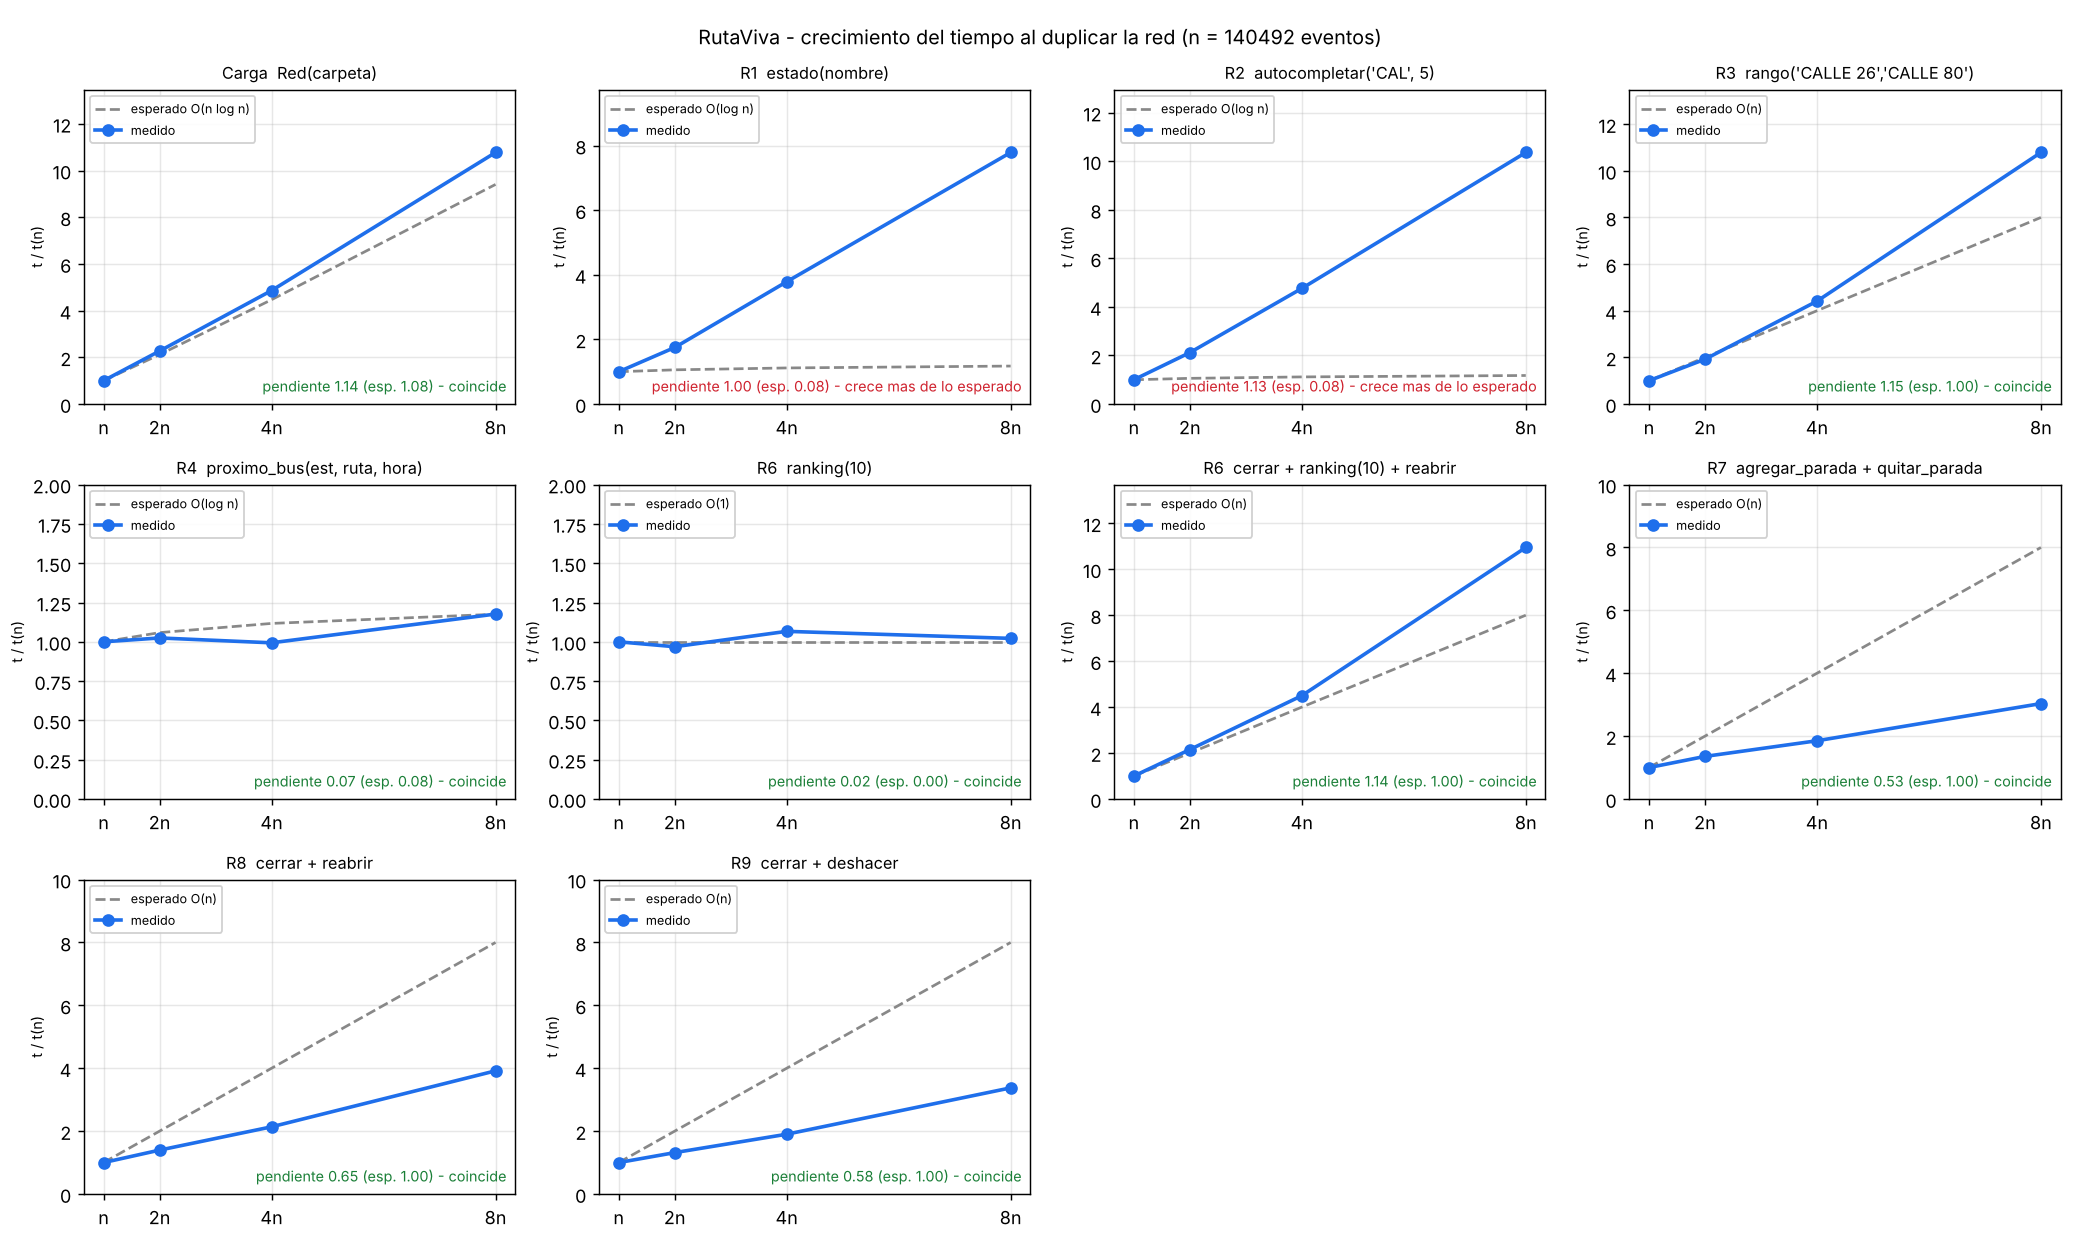
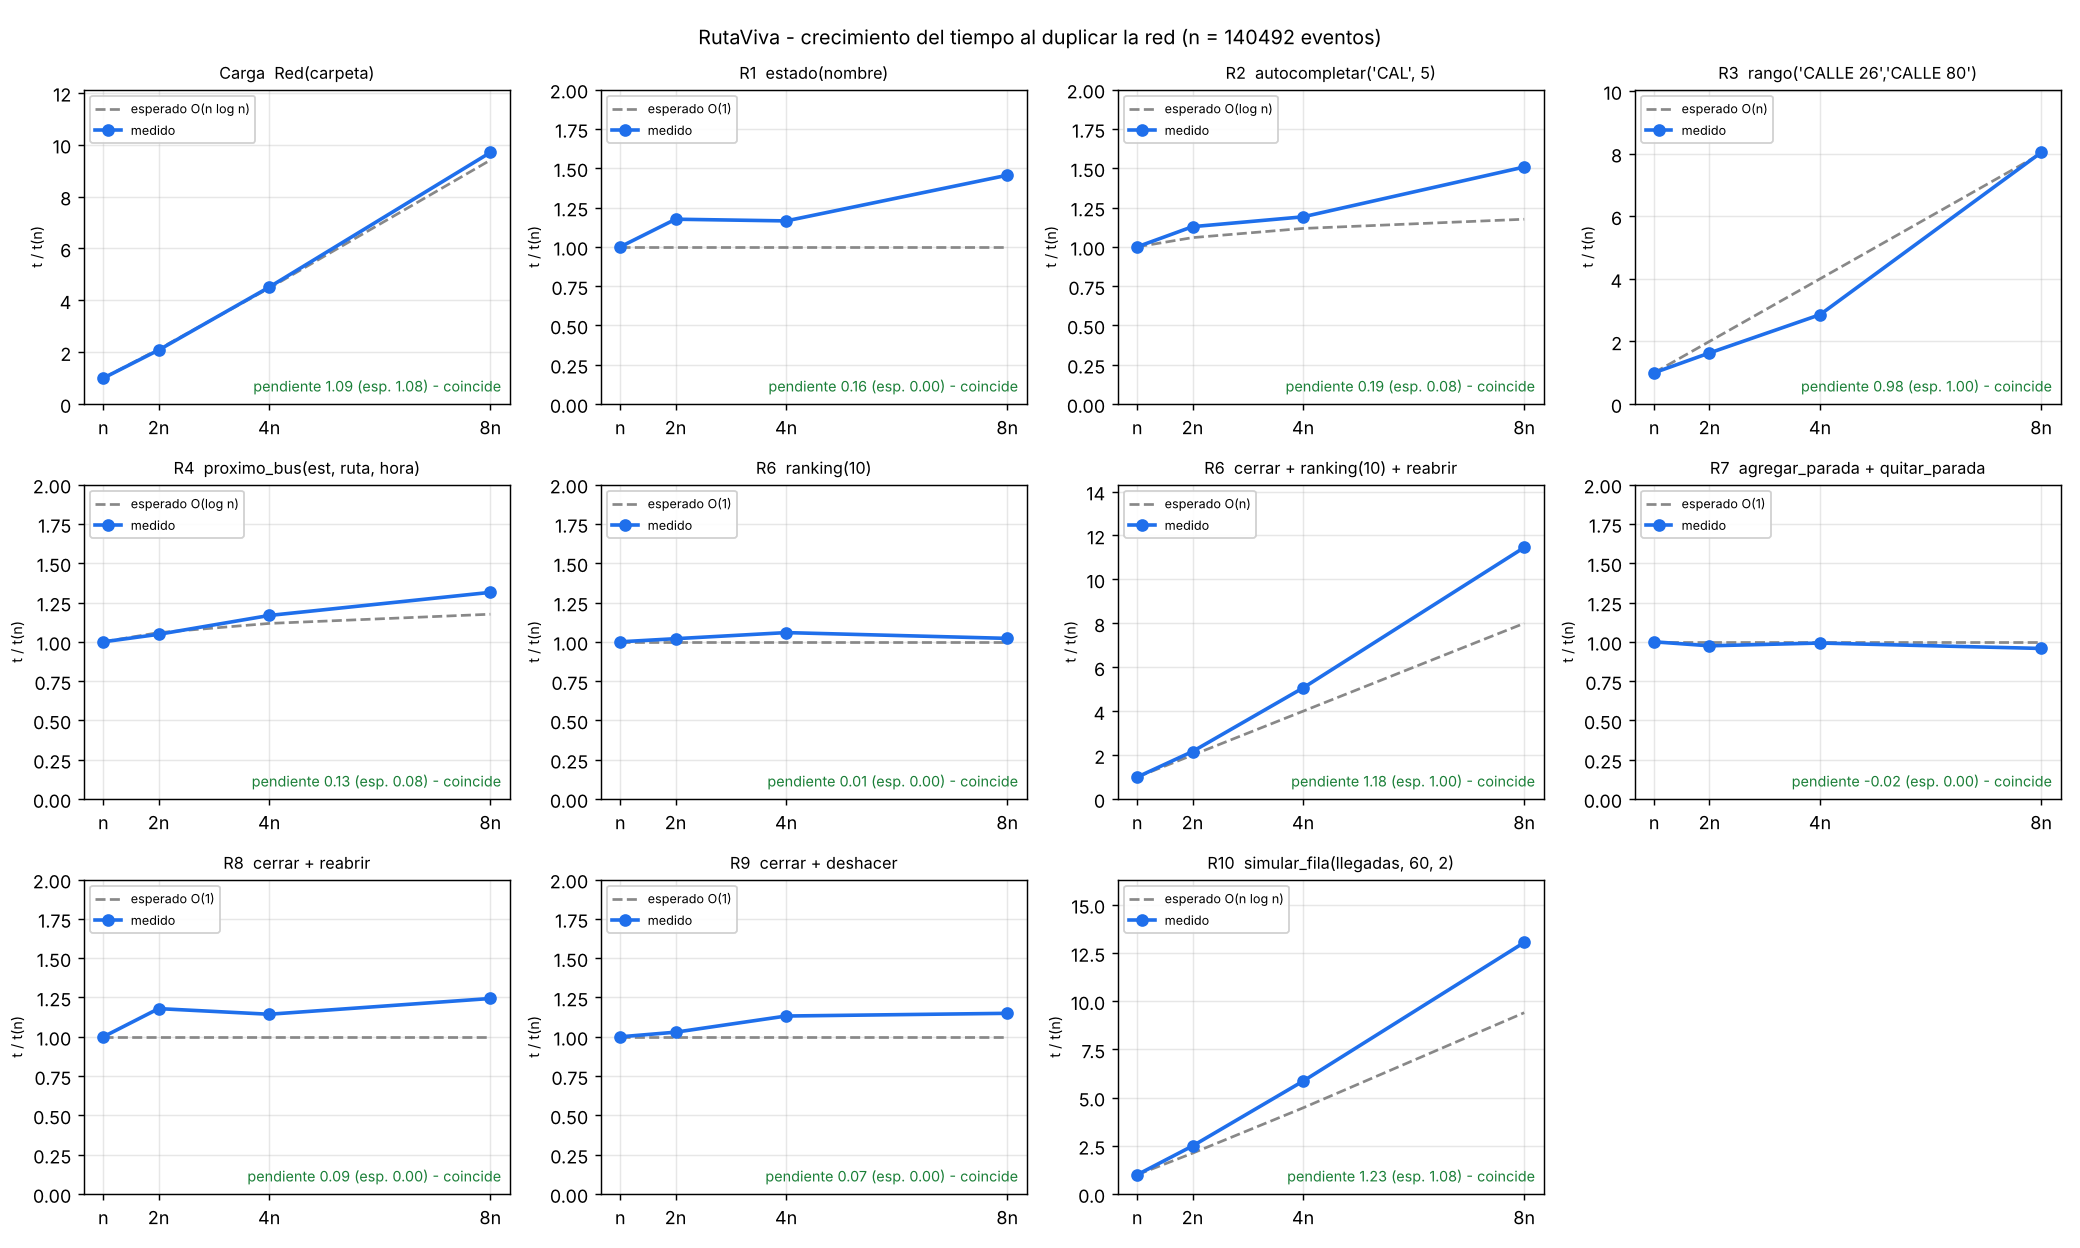
Panel R11 con las complejidades finales y medición actualizada

diff --git a/Front/panel_rendimiento.py b/Front/panel_rendimiento.py
@@ -69,31 +69,28 @@ def _crece(o, f, n_base):
 OPERACIONES = [
     ["carga",   "Carga", "Red(carpeta)", "n log n",
      "Lee los 3 CSV y ordena ~E eventos de horarios con merge sort propio."],
-    ["estado",  "R1", "estado(nombre)", "log n",
-     "Integrante 1: hoy recorre todas las estaciones y todas las rutas (lineal). "
-     "Para O(log n) debe usar busqueda binaria sobre las estaciones ordenadas al cargar."],
+    ["estado",  "R1", "estado(nombre)", "1",
+     "Tabla hash propia (nombre -> rutas): O(1) esperado, mas O(c) para revisar las cerradas."],
     ["autocompletar", "R2", "autocompletar('CAL', 5)", "log n",
-     "Integrante 1: hoy reordena las estaciones en cada llamada (n log n). Para "
-     "O(log n + k) debe ordenar una sola vez al cargar y buscar el prefijo con busqueda binaria."],
+     "Arreglo ordenado una sola vez al cargar y busqueda binaria del prefijo: O(log n + k)."],
     ["rango",   "R3", "rango('CALLE 26','CALLE 80')", "n",
-     "CONFIRMAR con Integrante 1. Es O(log n + m); al duplicar la red las copias "
-     "'CALLE 3X X2' caen dentro del rango, asi que m tambien se duplica."],
+     "Busqueda binaria de 'desde' y recorrido hasta 'hasta': O(log n + m). Al duplicar la red "
+     "las copias 'CALLE 3X ~2' caen dentro del rango, asi que m (la respuesta) tambien se duplica."],
     ["proximo_bus", "R4", "proximo_bus(est, ruta, hora)", "log n",
      "Dos busquedas binarias: clave ruta-estacion (log G) y hora (log H)."],
     ["ranking", "R6", "ranking(10)", "1",
      "Precalculado: con cache valida solo copia k=10 elementos -> O(k)."],
     ["ranking_cierre", "R6", "cerrar + ranking(10) + reabrir", "n",
      "Cerrar invalida el nivel 2 de la cache: se refiltra la lista de S estaciones."],
-    ["editar",  "R7", "agregar_parada + quitar_parada", "n",
-     "Segun INTEGRANTE_4_R7_R9.md: O(R + n + E) -> busqueda lineal de la ruta (R rutas) "
-     "y verificacion lineal de que la estacion existe (E estaciones). Al duplicar la red "
-     "se duplican R y E. Mejora posible: indice ordenado de estaciones (busqueda binaria)."],
-    ["cerrar",  "R8", "cerrar + reabrir", "n",
-     "Segun INTEGRANTE_4_R7_R9.md: O(E + c) -> _existe_estacion recorre las E estaciones."],
-    ["deshacer", "R9", "cerrar + deshacer", "n",
-     "Apilar/desapilar es O(1); lo que crece es el cerrar que se mide junto (O(E))."],
+    ["editar",  "R7", "agregar_parada + quitar_parada", "1",
+     "La ruta se ubica con tabla hash (O(1)) y la estacion se valida con otra tabla hash (O(1)). "
+     "Insertar o quitar dentro de la ruta es O(n) con n = paradas de esa ruta, que no crece al duplicar la red."],
+    ["cerrar",  "R8", "cerrar + reabrir", "1",
+     "La estacion se valida con tabla hash (O(1)); la lista de cerradas cuesta O(c), con c pequeno."],
+    ["deshacer", "R9", "cerrar + deshacer", "1",
+     "Apilar y desapilar son O(1), mas el cierre que se aplica y se revierte (O(1) + O(c))."],
     ["fila",    "R10", "simular_fila(llegadas, 60, 2)", "n log n",
-     "CONFIRMAR con Integrante 1. n = numero de llegadas; hay que ordenarlas (n log n) y luego una cola O(n)."],
+     "n = numero de llegadas: se ordenan con merge sort estable (n log n) y luego una cola FIFO (n)."],
 ]
 
 

diff --git a/README.md b/README.md
@@ -173,8 +173,9 @@ python Front/panel_rendimiento.py
 - **Explicación de desviaciones:**
   - R4 (pendiente ≈ 0,1) y `ranking` (≈ 0) son planas, como deben ser O(log n) y O(k).
   - `cerrar + ranking + reabrir` sale lineal (≈ 1,1) porque mide también el recálculo del ranking después del cambio.
-  - R7, R8 y R9 salen por debajo de 1 aunque son lineales en S: el recorrido lineal es barato frente al costo fijo de cada operación, y esa parte fija pesa más en las redes pequeñas.
-  - R1 y R2 crecen lineal aunque se esperaba O(log n). Ver la nota de R1–R3.
+  - R1 y R2 salen planos (×1,10 y ×1,11 al duplicar), como O(1) y O(log n + k). R3 crece con la red porque las copias caen dentro del rango, así que m (la respuesta) también se duplica.
+  - R7, R8 y R9 salen planos (≈ ×1,0): la ruta y la estación se ubican con tablas hash, y dentro de una ruta el costo depende de sus paradas, que no crecen al duplicar la red.
+  - R10 crece un poco más que lineal (×2,37 frente a ×2,11 esperado) por el merge sort de las llegadas, O(p log p).
 
 
 ## Conversión GTFS
